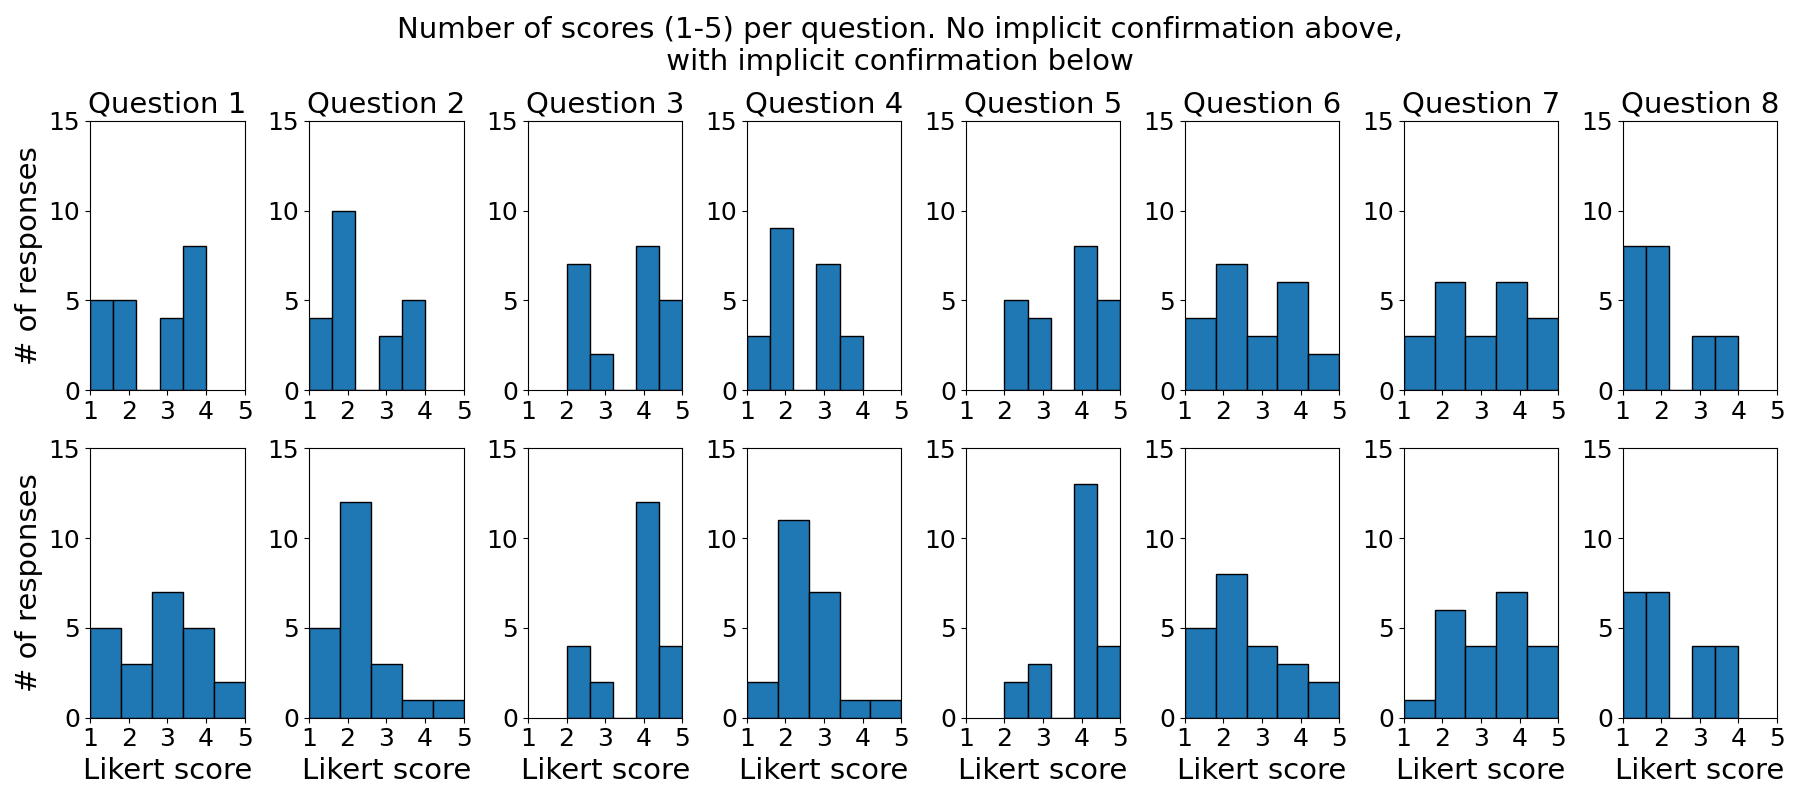
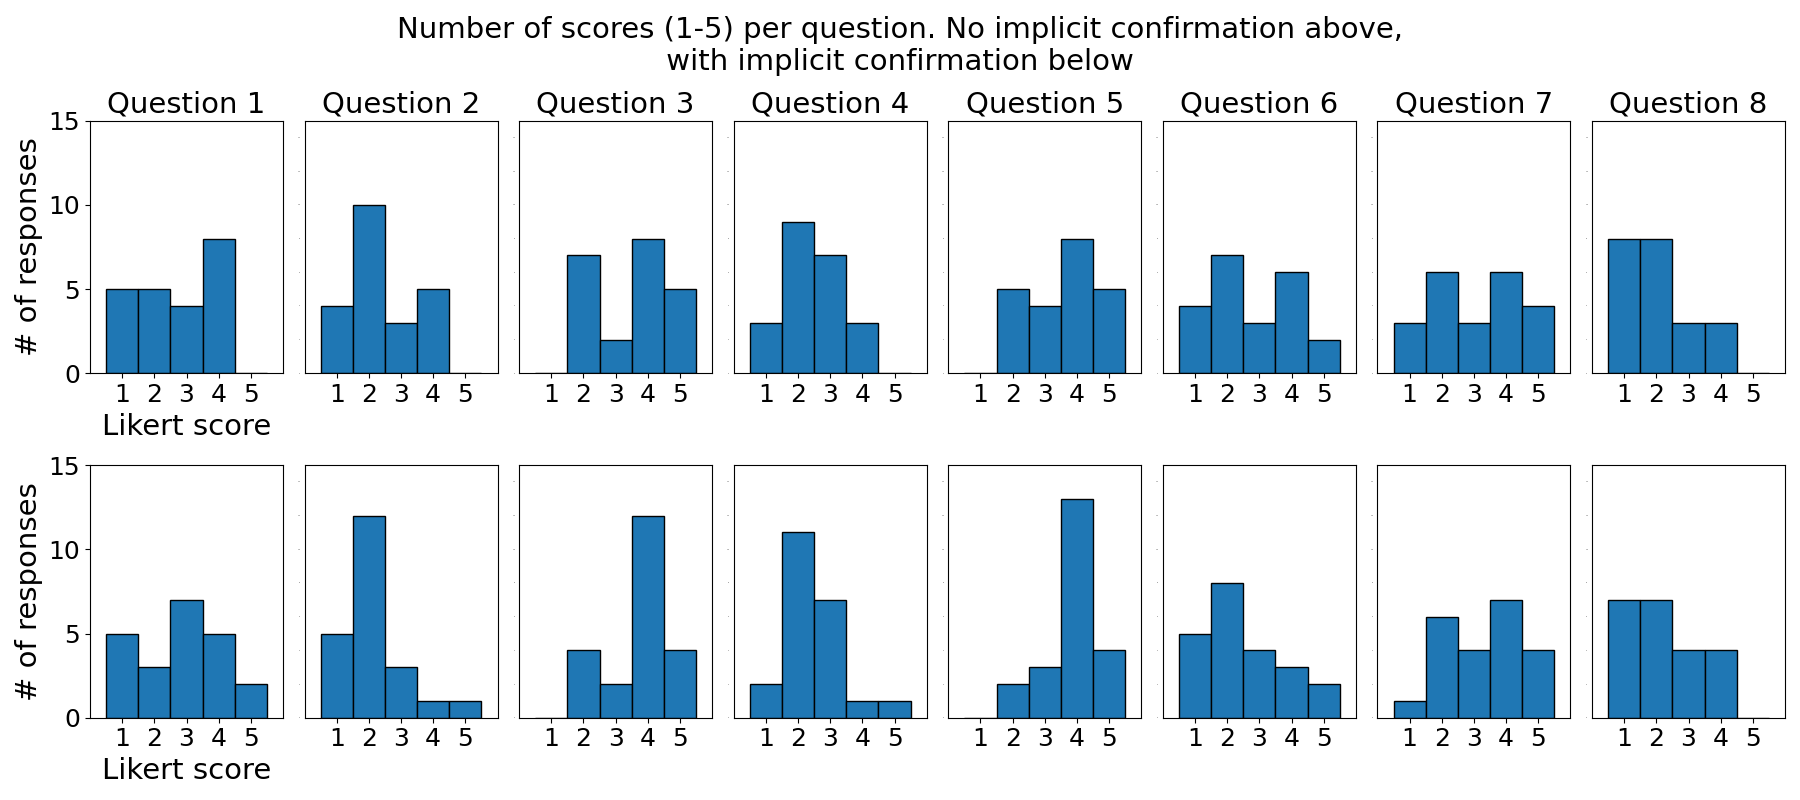
adjusted graphs according to feedback

diff --git a/survey_graph.py b/survey_graph.py
@@ -33,7 +33,7 @@ def get_graph_dictionary(survey_results_file):
         for participant_index in range(number_of_participants):
             first_task_question_response = survey_output.entries[participant_index].first.get_data_array()[question_index]
             second_task_question_response = survey_output.entries[participant_index].second.get_data_array()[question_index]
-            group = survey_output.entries[participant_index].group
+            group = survey_output.entries[participant_index].group.lower()
             output_dictionary[group]["first"][question_index] += first_task_question_response
             output_dictionary[group]["second"][question_index] += second_task_question_response
             if group == "a":
@@ -123,20 +123,29 @@ def plot_error_bars(graph_dictionary, save_file=False):
     b_2_mean = np.mean(graph_dictionary["b"]["second"])
     a_2_mean = np.mean(graph_dictionary["a"]["second"])
     b_1_mean = np.mean(graph_dictionary["b"]["first"])
+    without_impl = graph_dictionary["a"]["first"] + graph_dictionary["b"]["second"]
+    with_impl = graph_dictionary["a"]["second"] + graph_dictionary["b"]["first"]
+    without_impl_mean = np.mean(without_impl)
+    with_impl_mean = np.mean(with_impl)
 
     a_1_std = np.std(graph_dictionary["a"]["first"])
     b_2_std = np.std(graph_dictionary["b"]["second"])
     a_2_std = np.std(graph_dictionary["a"]["second"])
     b_1_std = np.std(graph_dictionary["b"]["first"])
+    without_impl_std = np.std(without_impl)
+    with_impl_std = np.std(with_impl)
 
-    labels = ["Group A\n(w/o implicit conf.)\nMean: {}\nSigma: {}".format(rnd(a_1_mean),rnd(a_1_std)),
-              "Group B\n(w/o implicit conf.)\nMean: {}\nSigma: {}".format(rnd(b_2_mean),rnd(b_2_std)),
-              "Group A\n(with implicit conf.)\nMean: {}\nSigma: {}".format(rnd(a_2_mean),rnd(a_2_std)),
-              "Group B\n(with implicit conf.)\nMean: {}\nSigma: {}".format(rnd(b_1_mean),rnd(b_1_std))
-              ]
+    labels = [
+        "Group A\n(implicit conf. off)\n",
+              "Group B\n(implicit conf. off)\n",
+              "Group A\n(implicit conf. on)\n",
+              "Group B\n(implicit conf. on)\n",
+              "Implicit conf. off \ncumulative",
+              "Implicit conf. on \ncumulative"
+        ]
     x_pos = np.arange(len(labels))
-    CTEs = [a_1_mean,b_2_mean,a_2_mean,b_1_mean]
-    error = [a_1_std,b_2_std,a_2_std,b_1_std]
+    CTEs = [a_1_mean,b_2_mean,a_2_mean,b_1_mean,without_impl_mean,with_impl_mean]
+    error = [a_1_std,b_2_std,a_2_std,b_1_std,without_impl_std,with_impl_std]
 
     # Build the plot
     fig, ax = plt.subplots()
@@ -148,7 +157,7 @@ def plot_error_bars(graph_dictionary, save_file=False):
            capsize=10)
     ax.set_ylabel('')
     ax.set_xticks(x_pos)
-    ax.set_xticklabels(labels,rotation="0")
+    ax.set_xticklabels(labels,rotation="30")
     ax.set_title('Average response scores on all questions')
     ax.yaxis.grid(True)
     ax.set_ylim(0, 5)
@@ -163,23 +172,32 @@ def plot_question_score_responses(grap_dictionary, save_file = False, condensed 
         fig, ax = plt.subplots(2,8,figsize=(18,8))
         for i in range(16):
             main_index = 0
-            if i<8:
+            if i < 8:
                 data = graph_dictionary["non_implicit_responses"][i]
             else:
                 data = graph_dictionary["implicit_responses"][i % 8]
                 main_index = 1
 
-            ax[main_index][i % 8].set_xticks(np.arange(1,6))
-            ax[main_index][i % 8].set_xticklabels(np.arange(1,6),fontsize=18)
-            ax[main_index][i%8].set_xlim(1,5)
-            #ax[main_index][i % 8].set_yticklabels(np.arange(0, 15), fontsize=18)
-            ax[main_index][i % 8].tick_params(axis='y', labelsize=18)
+            ax[main_index][i % 8].set_xticks(np.arange(1, 6))
+            ax[main_index][i % 8].set_xticklabels(np.arange(1, 6), fontsize=18)
+            ax[main_index][i % 8].set_xlim(0, 6)
             ax[main_index][i % 8].set_ylim(0, 15)
-            if i < 8:
-                ax[main_index][i % 8].set_title('Question {}'.format(i%8+1),{"fontsize":21})
+            ax[main_index][i % 8].tick_params(axis='y', labelsize=18)
+
+            if i % 8 != 0:
+                ax[main_index][i % 8].tick_params(
+                    axis='y',
+                    which='both',
+                    length=0,
+                    labelsize=0
+                )
             else:
-                ax[main_index][i % 8].set_xlabel("Likert score",fontsize=21)
-            ax[main_index][i%8].hist(data,bins=5,edgecolor="black")
+                ax[main_index][i % 8].set_xlabel("Likert score", fontsize=21)
+
+            if i < 8:
+                ax[main_index][i % 8].set_title('Question {}'.format(i % 8+1), {"fontsize": 21})
+
+            ax[main_index][i%8].hist(data,np.arange(1,7)-.5,edgecolor="black")
 
         ax[0][0].set_ylabel("# of responses", fontsize=21)
         ax[1][0].set_ylabel("# of responses", fontsize=21)
@@ -194,41 +212,41 @@ def plot_question_score_responses(grap_dictionary, save_file = False, condensed 
 
         data1_nonflat = graph_dictionary["non_implicit_responses"]
         data2_nonflat = graph_dictionary["implicit_responses"]
-        data1 = [item for sublist in data1_nonflat for item in sublist]
-        data2 = [item for sublist in data2_nonflat for item in sublist]
+        data1 = [abs(item-6) if index % 2 != 0 else item for sublist in data1_nonflat for index, item in enumerate(sublist)]
+        data2 = [abs(item-6) if index % 2 != 0 else item for sublist in data2_nonflat for index, item in enumerate(sublist)]
 
         ax[0].set_xticks(np.arange(1,6))
         ax[0].set_xticklabels(np.arange(1, 6), fontsize=12)
-        ax[0].set_xlim(1, 5)
+        ax[0].set_xlim(0, 6)
         ax[0].set_ylim(0, 0.5)
 
         ax[1].set_xticks(np.arange(1, 6))
         ax[1].set_xticklabels(np.arange(1, 6), fontsize=12)
-        ax[1].set_xlim(1, 5)
+        ax[1].set_xlim(0, 6)
         ax[1].set_ylim(0, 0.5)
 
-        n, bins, patches = ax[0].hist(data1,bins=5,edgecolor="black",density=1)
+        n, bins, patches = ax[0].hist(data1,np.arange(1,7)-.5,edgecolor="black",density=1)
         mean = np.mean(data1)
         std = np.std(data1)
         median = np.median(data1)
         vari = np.var(data1)
-        without_implicit += "Median: {}, Mean: {}, Standard deviation: {}, Variance: {}".format(median,rnd(mean),rnd(std),rnd(vari))
+        #without_implicit += "Median: {}, Mean: {}, Standard deviation: {}, Variance: {}".format(median,rnd(mean),rnd(std),rnd(vari))
         y = ((1 / (np.sqrt(2 * np.pi) * std)) *
              np.exp(-0.5 * (1 / std * (bins - mean)) ** 2))
         ax[0].plot(bins,y, "--")
-        ax[0].set_ylabel("Probability of response")
+        ax[0].set_ylabel("Distribution of responses")
         ax[0].set_xlabel("Likert score\n"+without_implicit)
 
-        n, bins, patches = ax[1].hist(data2, bins=5, edgecolor="black", density=1)
+        n, bins, patches = ax[1].hist(data2, np.arange(1,7)-.5, edgecolor="black", density=1)
         mean = np.mean(data2)
         std = np.std(data2)
         median = np.median(data2)
         vari = np.var(data2)
-        with_implicit += "Median: {}, Mean: {}, Standard deviation: {}, Variance: {}".format(median,rnd(mean),rnd(std),rnd(vari))
+        #with_implicit += "Median: {}, Mean: {}, Standard deviation: {}, Variance: {}".format(median,rnd(mean),rnd(std),rnd(vari))
         y2 = ((1 / (np.sqrt(2 * np.pi) * std)) *
              np.exp(-0.5 * (1 / std * (bins - mean)) ** 2))
         ax[1].plot(bins, y2, "--")
-        ax[1].set_ylabel("Probability of response")
+        ax[1].set_ylabel("Distribution of responses")
         ax[1].set_xlabel("Likert score\n"+with_implicit)
 
         fig.suptitle("Number of scores (1-5) across all questions. No implicit confirmation above,\n with implicit confirmation below ")
